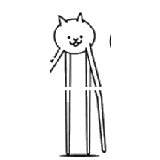
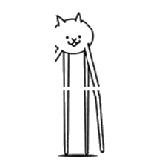
Finalize Gross Cat sprite crops and refresh cache

Changed region(s): [[0.3125, 0.0625, 0.6875, 1.0], [0.6562, 0.2188, 0.7188, 0.3125], [0.5938, 0.9688, 0.625, 1.0]]

diff --git a/src/main.js b/src/main.js
@@ -74,7 +74,7 @@ let battleAssetsPromise = null;
 let battleLevelConfig = null;
 let battleLevelConfigPromise = null;
 let battleLevelName = "Korea";
-const BATTLE_ASSET_VERSION = "20261104-13";
+const BATTLE_ASSET_VERSION = "20261104-14";
 const BATTLE_AXE_SPRITE_SIZE = 160;
 const BATTLE_AXE_SPRITE_CACHE = new Map();
 const BATTLE_ENEMY_SPRITE_CACHE = new Map();

diff --git a/index.html b/index.html
@@ -12,6 +12,6 @@
 <main class="game" aria-label="Battle Cats fan remake">
   <section class="stage" aria-live="polite"></section>
 </main>
-<script src="src/main.js?v=20261104-13"></script>
+<script src="src/main.js?v=20261104-14"></script>
 </body>
 </html>
